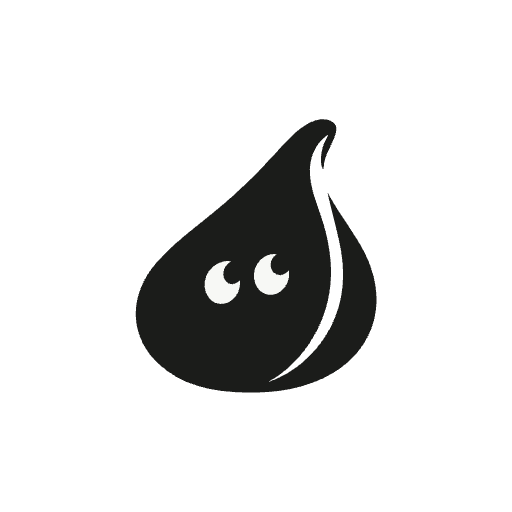
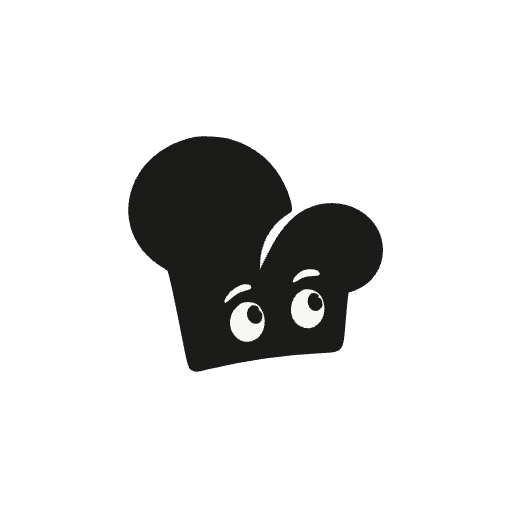
Adopt the Curious Chef mascot across Savorly

Changed region(s): [[0.25, 0.2188, 0.75, 0.7812]]

diff --git a/apps/mobile/src/components/Splash.tsx b/apps/mobile/src/components/Splash.tsx
@@ -14,7 +14,7 @@ import { color } from '../lib/theme';
 import { brandColors } from './Brand';
 
 const native = Platform.OS !== 'web';
-// One clock for every stage of loading (fonts, language, the kitchen itself), so the clove
+// One clock for every stage of loading (fonts, language, the kitchen itself), so the chef
 // carries on mid-hop as each stage hands over instead of starting again.
 const started = Date.now();
 const HOP = 1100;
@@ -23,7 +23,7 @@ const BLINK = 3300;
 const SHORTEST = 1000;
 const size = 112;
 // Where the eyes sit in the artwork, so a blink closes them in place.
-const eyes = '46% 59%';
+const eyes = artwork.mascot.eyeOrigin;
 const phase = (period: number) => ((Date.now() - started) % period) / period;
 // Starts a looping 0→1 timeline where the shared clock is, then keeps it on the beat.
 function useLoop(period: number, easing: (t: number) => number) {
@@ -50,7 +50,7 @@ function useLoop(period: number, easing: (t: number) => number) {
 const linear = Easing.linear;
 
 /**
- * The loading screen: the clove hopping on a hot pan, blinking now and then. `done` fades it out
+ * The loading screen: the chef hopping and blinking now and then. `done` fades it out
  * once it has been up long enough to read as a moment rather than a flicker.
  */
 export function Splash({ done = false, label = 'Savorly' }: { done?: boolean; label?: string }) {
@@ -121,8 +121,9 @@ export function Splash({ done = false, label = 'Savorly' }: { done?: boolean; la
             transformOrigin: 'center bottom',
           }}
         >
-          <Svg width={size} height={size} viewBox={artwork.clove.viewBox}>
-            <Path d={artwork.clove.path} fill={brandColors.ink} fillRule="evenodd" />
+          <Svg width={size} height={size} viewBox={artwork.mascot.viewBox}>
+            <Path d={artwork.mascot.path} fill={brandColors.ink} />
+            <Path d={artwork.mascot.accents} fill={brandColors.cream} />
           </Svg>
           <Animated.View
             style={[
@@ -130,8 +131,9 @@ export function Splash({ done = false, label = 'Savorly' }: { done?: boolean; la
               { transform: [{ scaleY: reduced ? 1 : lids }], transformOrigin: eyes },
             ]}
           >
-            <Svg width={size} height={size} viewBox={artwork.clove.viewBox}>
-              <Path d={artwork.clove.eyes} fill={brandColors.cream} />
+            <Svg width={size} height={size} viewBox={artwork.mascot.viewBox}>
+              <Path d={artwork.mascot.eyes} fill={brandColors.cream} />
+              <Path d={artwork.mascot.pupils} fill={brandColors.ink} />
             </Svg>
           </Animated.View>
         </Animated.View>

diff --git a/apps/mobile/src/components/Brand.tsx b/apps/mobile/src/components/Brand.tsx
@@ -10,13 +10,15 @@ export function BrandMark({ size = 40 }: { size?: number }) {
     <Svg
       width={size}
       height={size}
-      viewBox={artwork.clove.viewBox}
+      viewBox={artwork.mascot.viewBox}
       accessible={false}
       aria-hidden
       pointerEvents="none"
     >
-      <Path d={artwork.clove.path} fill={brandColors.ink} fillRule="evenodd" />
-      <Path d={artwork.clove.eyes} fill={brandColors.cream} />
+      <Path d={artwork.mascot.path} fill={brandColors.ink} />
+      <Path d={artwork.mascot.accents} fill={brandColors.cream} />
+      <Path d={artwork.mascot.eyes} fill={brandColors.cream} />
+      <Path d={artwork.mascot.pupils} fill={brandColors.ink} />
     </Svg>
   );
 }

diff --git a/docs/BRANDING.md b/docs/BRANDING.md
@@ -1,26 +1,28 @@
-# Savorly — The Happy Clove
+# Savorly — The Curious Chef
 
-The selected identity pairs an asymmetric garlic-clove character with a flowing, hand-lettered
+The selected identity pairs chef-hat concept **06, The Curious Chef**, with a flowing, hand-lettered
 `savorly` wordmark for the web sidebar and standalone brand artwork. Mobile screens and sheets
-use only the clove icon, directly on the surrounding surface without a colored tile.
-The crescent eyes and curved clove separation remain readable at small sizes.
+use only the chef icon, directly on the surrounding surface without a colored tile.
+The tilted crown, curved fold, raised eyebrows, and visible pupils preserve the chosen character.
 The logo palette is charcoal (`#1B1C1A`) and cream (`#F7F8F5`).
 
-![Happy Clove logo and platform variants](brand/preview.png)
+![Curious Chef logo and platform variants](brand/preview.png)
 
 ## Artwork and use
 
 - `apps/mobile/assets/brand-artwork.json` is the shared vector source for the app and icon renderer.
 - `BrandMark` and `BrandWordmark` in `src/components/Brand.tsx` render the shared artwork with the
   existing `react-native-svg` dependency. The wordmark is outlined artwork and requires no additional font.
-- The web sidebar shows the clove and wordmark together. The welcome screen, sign-in dialog,
-  signed-out kitchen, and native navigation use only the clove icon, without a background tile. Cooking
+- The web sidebar shows the chef and wordmark together. The welcome screen, sign-in dialog,
+  signed-out kitchen, and native navigation use only the chef icon, without a background tile. Cooking
   controls and recipe placeholders keep their functional Lucide icons.
 - `brand-mark.svg` and `brand-wordmark.svg` are transparent exports. `brand.svg` is the square
   app icon with its neutral cream background.
-- The transparent generated masters and their prompts are in `docs/brand/`. They were refined
-  with built-in image generation from the selected concept, then traced to clean vector paths.
-  Production rendering does not use those raster masters or require an image-generation service.
+- The approved chef concept sheet and its built-in image-generation prompt are in `docs/brand/`.
+  The large **06** drawing was traced directly into clean vector paths; the handwritten wordmark
+  retains its existing artwork and transparent master. Production rendering requires no image service.
+- The loading screen animates the eyes and pupils together over the solid hat, with the blink
+  centered on the chef's eye position. The eyebrows stay still.
 
 ## Regenerate platform assets
 
@@ -36,13 +38,13 @@ SVG exports and these PNGs:
 | Asset                         | Size        | Use                                                                   |
 | ----------------------------- | ----------- | --------------------------------------------------------------------- |
 | `icon.png`                    | 1024 × 1024 | Opaque iOS / default app icon                                         |
-| `favicon.png`                 | 64 × 64     | Browser icon, with a slightly larger clove                            |
+| `favicon.png`                 | 64 × 64     | Browser icon, with a larger chef to retain facial detail at 16–32 px  |
 | `android-icon-foreground.png` | 512 × 512   | Transparent adaptive foreground                                       |
-| `android-icon-monochrome.png` | 512 × 512   | Alpha-only themed icon with eye and clove cutouts                     |
+| `android-icon-monochrome.png` | 512 × 512   | Alpha-only themed icon with light-detail cutouts and opaque pupils    |
 | `splash-icon.png`             | 1024 × 1024 | Transparent splash artwork, available for future splash configuration |
 
 Android's adaptive background in `app.json` must match the cream brand color; the renderer checks
-this. The adaptive clove is smaller than the default icon to fit the guaranteed 66/108 safe circle.
+this. The adaptive chef is smaller than the default icon to fit the guaranteed 66/108 safe circle.
 See [Android's adaptive icon guidelines](https://developer.android.com/develop/ui/compose/system/icon_design_adaptive).
 Launcher icon changes require a new native build; updating JavaScript alone does not replace the
 installed launcher icon. See [Expo's icon documentation](https://docs.expo.dev/develop/user-interface/splash-screen-and-app-icon/).
